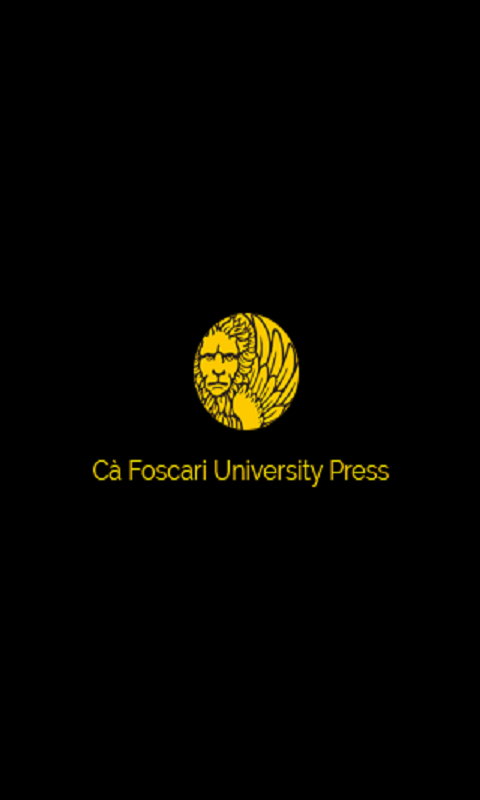
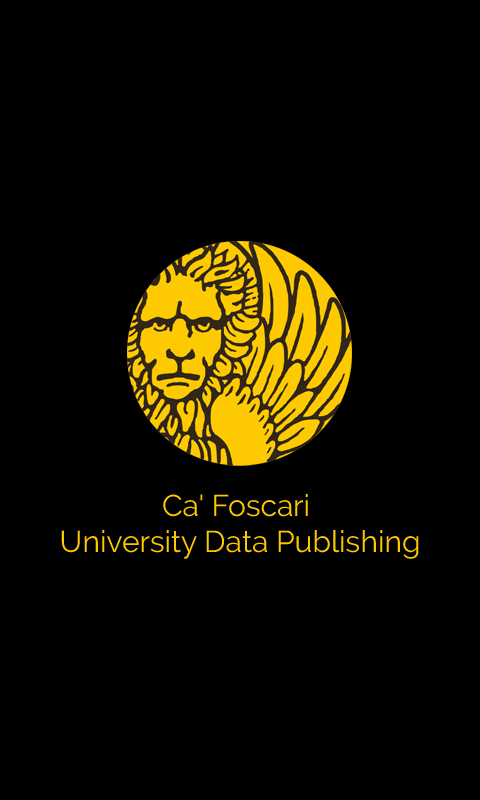
201511241717

Changed region(s): [[0.125, 0.2812, 0.875, 0.7188]]

diff --git a/www/index.html b/www/index.html
@@ -18,10 +18,9 @@
 
 <script id="sign-in.html" type="text/ng-template">
   <ion-view view-title="Cà Foscari University Press">
-  	
-	<ion-content class="bodycolor"> 
+  	<ion-content class="bodycolor"> 
 	  	<div class="list card">
-			<div class="item item-image">
+			<div class="item item-image" >
 				<img src="images/user100.png">
 		  	</div>
 		</div>
@@ -53,17 +52,15 @@
 
 <script id="templates/check-in.html" type="text/ng-template">
   <ion-view view-title="Cà Foscari University Press">
-  	<ion-nav-title style="height:70px;">
-      <img src="images/50icon.png" style="vertical-align:top; height:40px;">
-	  Cà Foscari University Press
-    </ion-nav-title>
-	<ion-content class="bodycolor"> 
-	  	<div class="list card">
-			<div class="item item-image">
-				<img src="images/user100.png">
-		  	</div>
+	  	<ion-nav-title class="titleh" style="height:100px;">
+		  <img src="images/50icon.png" style="vertical-align:top; height:40px;">
+		  <span style="font-size:15px;">Cà Foscari University Data Publishing</span>
+		</ion-nav-title>
+  	<ion-content class="bodycolor"> 
+		<div style="margin-top:40px;">
+			<center><img src="images/user.png" height="240px;"></center>
 		</div>
-		<center><button class="button button-energized" ng-click="showtask()">Tasks</button></center>
+		<center><button class="button button-large button-energized" style="margin-top:15px;" ng-click="showtask()">Tasks</button></center>
 	</ion-content>
   </ion-view>
 </script>
@@ -72,21 +69,23 @@
 <script id="templates/tasks.html" type="text/ng-template">
   <ion-view view-title="Review">
 	<ion-content class="bodycolor">
-	<div class="row">
-	  <div class="col col-30" style="font-size:15px;" ng-click="showreview()">1. Review</div>
-	  <div class="col col-35"><button class="button {{buttoncolor11}}" ng-click="changecolor(11)">Accepted</button></div>
-	  <div class="col col-35" ><button class="button {{buttoncolor12}}" ng-click="changecolor(12)">Done</button></div>
-	</div>
-	<div class="row">
-	  <div class="col col-30" style="font-size:15px;" ng-click="showedit()">2. Editing</div>
-	  <div class="col col-35"><button class="button {{buttoncolor21}}" ng-click="changecolor(21)">Accepted</button></div>
-	  <div class="col col-35" ><button class="button {{buttoncolor22}}" ng-click="changecolor(22)">Done</button></div>
-	</div>
-	<div class="row">
-	  <div class="col col-30" style="font-size:15px;" ng-click="showtranslate()">3. Translation</div>
-	  <div class="col col-35"><button class="button {{buttoncolor31}}" ng-click="changecolor(31)">Accepted</button></div>
-	  <div class="col col-35" ><button class="button {{buttoncolor32}}" ng-click="changecolor(32)">Done</button></div>
-	</div>
+	<ul class="list">
+			<li class="item bodycolor">
+				<a href="#/event/review" class="item-icon-right bodycolor"> 1. Reviewing
+					 <i class="icon ion-ios-arrow-right"></i>
+				</a>
+			</li>
+			<li class="item bodycolor">
+				<a href="#/event/translate" class="item-icon-right bodycolor"> 2. Translating
+					 <i class="icon ion-ios-arrow-right"></i>
+				</a>
+			</li>
+			<li class="item bodycolor">
+				<a href="#/event/edit" class="item-icon-right bodycolor"> 3. Editing
+					 <i class="icon ion-ios-arrow-right"></i>
+				</a>
+			</li>
+		</ul>
 	</ion-content>
   </ion-view>
 </script>
@@ -130,6 +129,10 @@
 		  <span class="input-label bodycolor">Referent:</span>
 		  <span class="input-label bodycolor">Professor Giovanni Vaia</span>
 		</label>
+		<div class="row">
+		  <div class="col col-50" style="text-align:center"><button class="button {{buttoncolor11}}" ng-click="changecolor(11)">Accepted</button></div>
+		  <div class="col col-50" style="text-align:center"><button class="button {{buttoncolor12}}" ng-click="changecolor(12)">Done</button></div>
+		</div>
 	  </div>
 	</ion-content>
   </ion-view>
@@ -155,6 +158,10 @@
 		  <span class="input-label bodycolor">Referent:</span>
 		  <span class="input-label bodycolor">Professor Giovanni Vaia</span>
 		</label>
+		<div class="row">
+		  <div class="col col-50" style="text-align:center"><button class="button {{buttoncolor11}}" ng-click="changecolor(11)">Accepted</button></div>
+		  <div class="col col-50" style="text-align:center"><button class="button {{buttoncolor12}}" ng-click="changecolor(12)">Done</button></div>
+		</div>
 	  </div>
 	</ion-content>
   </ion-view>
@@ -194,6 +201,10 @@
 		  <span class="input-label bodycolor">Referent:</span>
 		  <span class="input-label bodycolor">Professor Giovanni Vaia</span>
 		</label>
+		<div class="row">
+		  <div class="col col-50" style="text-align:center"><button class="button {{buttoncolor11}}" ng-click="changecolor(11)">Accepted</button></div>
+		  <div class="col col-50" style="text-align:center"><button class="button {{buttoncolor12}}" ng-click="changecolor(12)">Done</button></div>
+		</div>
 	  </div>
 	</ion-content>
   </ion-view>
@@ -233,6 +244,11 @@
 		  <span class="input-label bodycolor">Referent:</span>
 		  <span class="input-label bodycolor">Professor Giovanni Vaia</span>
 		</label>
+		
+		<div class="row">
+		  <div class="col col-50" style="text-align:center"><button class="button {{buttoncolor11}}" ng-click="changecolor(11)">Accepted</button></div>
+		  <div class="col col-50" style="text-align:center"><button class="button {{buttoncolor12}}" ng-click="changecolor(12)">Done</button></div>
+		</div>
 	  </div>
 	</ion-content>
   </ion-view>

diff --git a/www/js/controller.js b/www/js/controller.js
@@ -33,22 +33,6 @@ angular.module('starter.controllers', [])
 })
 
 .controller('tasksCtrl', function($scope,$state) {
-	$scope.buttoncolor11 = "button-assertive";
-	$scope.buttoncolor12 = "button-assertive";
-	$scope.buttoncolor21 = "button-assertive";
-	$scope.buttoncolor22 = "button-assertive";
-	$scope.buttoncolor31 = "button-assertive";
-	$scope.buttoncolor32 = "button-assertive";
-	
-	$scope.changecolor = function(val){
-		if(val == 11)$scope.buttoncolor11 = "button-energized";
-		if(val == 12)$scope.buttoncolor12 = "button-balanced";
-		if(val == 21)$scope.buttoncolor21 = "button-energized";
-		if(val == 22)$scope.buttoncolor22 = "button-balanced";
-		if(val == 31)$scope.buttoncolor31 = "button-energized";
-		if(val == 32)$scope.buttoncolor32 = "button-balanced";
-	}
-	
 	$scope.showreview = function(){
 		$state.go('eventmenu.review');
 	}
@@ -84,6 +68,89 @@ angular.module('starter.controllers', [])
 .controller('editCtrl', function($scope,$state) {
 	$scope.showeditdetail1 = function(){
 		$state.go('eventmenu.editdetail1');
+	}
+})
+
+.controller('reviewdetailCtrl', function($scope,$state) {
+	var val1 = localStorage.getItem("rbutton1");
+	var val2 = localStorage.getItem("rbutton2");
+	
+	if(val1 != 1)$scope.buttoncolor11 = "button-assertive";
+	else $scope.buttoncolor11 = "button-energized";
+	if(val2 != 1)$scope.buttoncolor12 = "button-assertive";
+	else $scope.buttoncolor12 = "button-balanced";
+	
+	$scope.changecolor = function(val){
+		
+		if(val == 11){
+			$scope.buttoncolor11 = "button-energized";
+			localStorage.setItem("rbutton1",1);
+		}
+		if(val == 12){
+			$scope.buttoncolor12 = "button-balanced";
+			localStorage.setItem("rbutton2",1);
+		}
+	}
+})
+.controller('reviewdetail1Ctrl', function($scope,$state) {
+	var val1 = localStorage.getItem("r1button1");
+	var val2 = localStorage.getItem("r1button2");
+	
+	if(val1 != 1)$scope.buttoncolor11 = "button-assertive";
+	else $scope.buttoncolor11 = "button-energized";
+	if(val2 != 1)$scope.buttoncolor12 = "button-assertive";
+	else $scope.buttoncolor12 = "button-balanced";
+	
+	
+	$scope.changecolor = function(val){
+		if(val == 11){
+			$scope.buttoncolor11 = "button-energized";
+			localStorage.setItem("r1button1",1);
+		}
+		if(val == 12){
+			$scope.buttoncolor12 = "button-balanced";
+			localStorage.setItem("r1button2",1);
+		}
+	}
+})
+.controller('translatedetail1Ctrl', function($scope,$state) {
+	var val1 = localStorage.getItem("tbutton1");
+	var val2 = localStorage.getItem("tbutton2");
+	
+	if(val1 != 1)$scope.buttoncolor11 = "button-assertive";
+	else $scope.buttoncolor11 = "button-energized";
+	if(val2 != 1)$scope.buttoncolor12 = "button-assertive";
+	else $scope.buttoncolor12 = "button-balanced";
+	
+	$scope.changecolor = function(val){
+		if(val == 11){
+			$scope.buttoncolor11 = "button-energized";
+			localStorage.setItem("tbutton1",1);
+		}
+		if(val == 12){
+			$scope.buttoncolor12 = "button-balanced";
+			localStorage.setItem("tbutton2",1);
+		}
+	}
+})
+.controller('editdetail1Ctrl', function($scope,$state) {
+	var val1 = localStorage.getItem("ebutton1");
+	var val2 = localStorage.getItem("ebutton2");
+	
+	if(val1 != 1)$scope.buttoncolor11 = "button-assertive";
+	else $scope.buttoncolor11 = "button-energized";
+	if(val2 != 1)$scope.buttoncolor12 = "button-assertive";
+	else $scope.buttoncolor12 = "button-balanced";
+	
+	$scope.changecolor = function(val){
+		if(val == 11){
+			$scope.buttoncolor11 = "button-energized";
+			localStorage.setItem("ebutton1",1);
+		}
+		if(val == 12){
+			$scope.buttoncolor12 = "button-balanced";
+			localStorage.setItem("ebutton2",1);
+		}
 	}
 })
 

diff --git a/www/js/app.js b/www/js/app.js
@@ -55,7 +55,8 @@ angular.module('ionicApp', ['ionic','ngCordova','ngIOS9UIWebViewPatch','starter.
       url: "/reviewdetail",
       views: {
         'menuContent' :{
-          templateUrl: "templates/reviewdetail.html"
+          templateUrl: "templates/reviewdetail.html",
+		  controller: "reviewdetailCtrl"
         }
       }
     })
@@ -63,7 +64,8 @@ angular.module('ionicApp', ['ionic','ngCordova','ngIOS9UIWebViewPatch','starter.
       url: "/reviewdetail1",
       views: {
         'menuContent' :{
-          templateUrl: "templates/reviewdetail1.html"
+          templateUrl: "templates/reviewdetail1.html",
+		  controller: "reviewdetail1Ctrl"
         }
       }
     })
@@ -71,7 +73,8 @@ angular.module('ionicApp', ['ionic','ngCordova','ngIOS9UIWebViewPatch','starter.
       url: "/translatedetail1",
       views: {
         'menuContent' :{
-          templateUrl: "templates/translatedetail1.html"
+          templateUrl: "templates/translatedetail1.html",
+		  controller: "translatedetail1Ctrl"
         }
       }
     })
@@ -79,7 +82,8 @@ angular.module('ionicApp', ['ionic','ngCordova','ngIOS9UIWebViewPatch','starter.
       url: "/editdetail1",
       views: {
         'menuContent' :{
-          templateUrl: "templates/editdetail1.html"
+          templateUrl: "templates/editdetail1.html",
+		  controller: "editdetail1Ctrl"
         }
       }
     })

diff --git a/www/css/style.css b/www/css/style.css
@@ -7,6 +7,7 @@
 /* ancher config */
 a{text-decoration: none; display:block; width:100%; color:#000;}
 
+.titleh{height:100px; }
 /* header background color */
 .header-bar{background-color:#000; color:#FFF; border-bottom-color:#000; }
 
